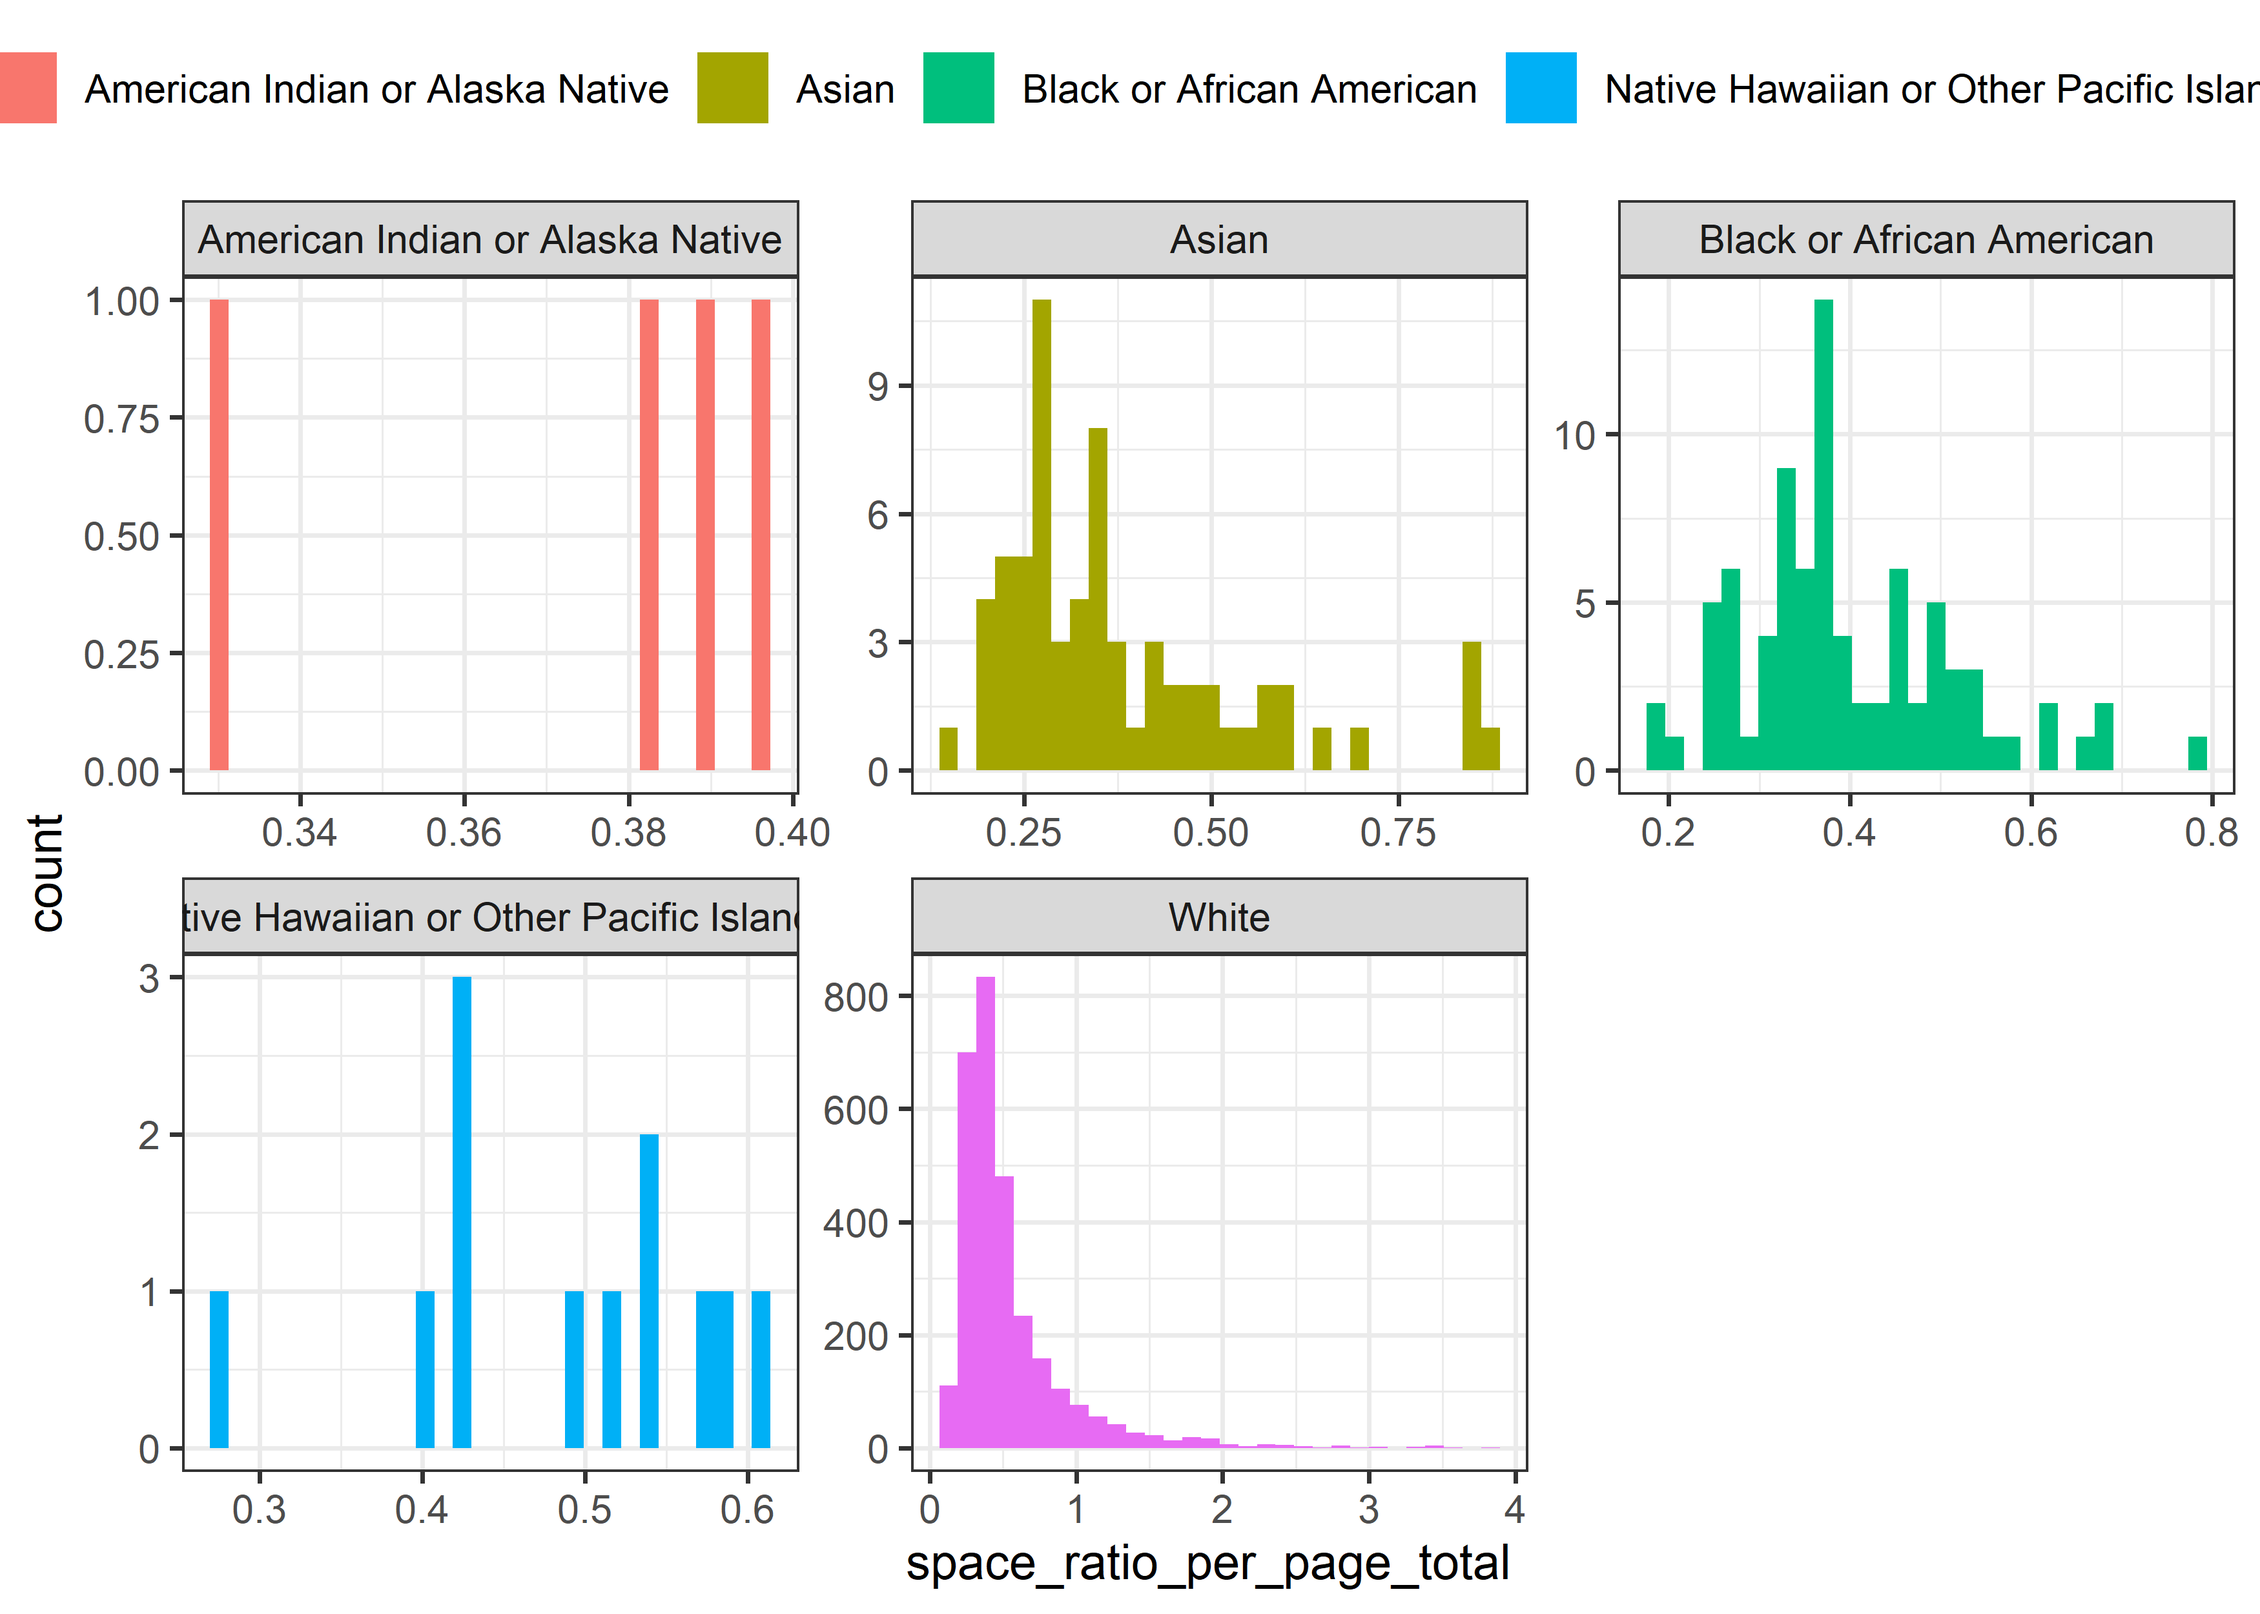
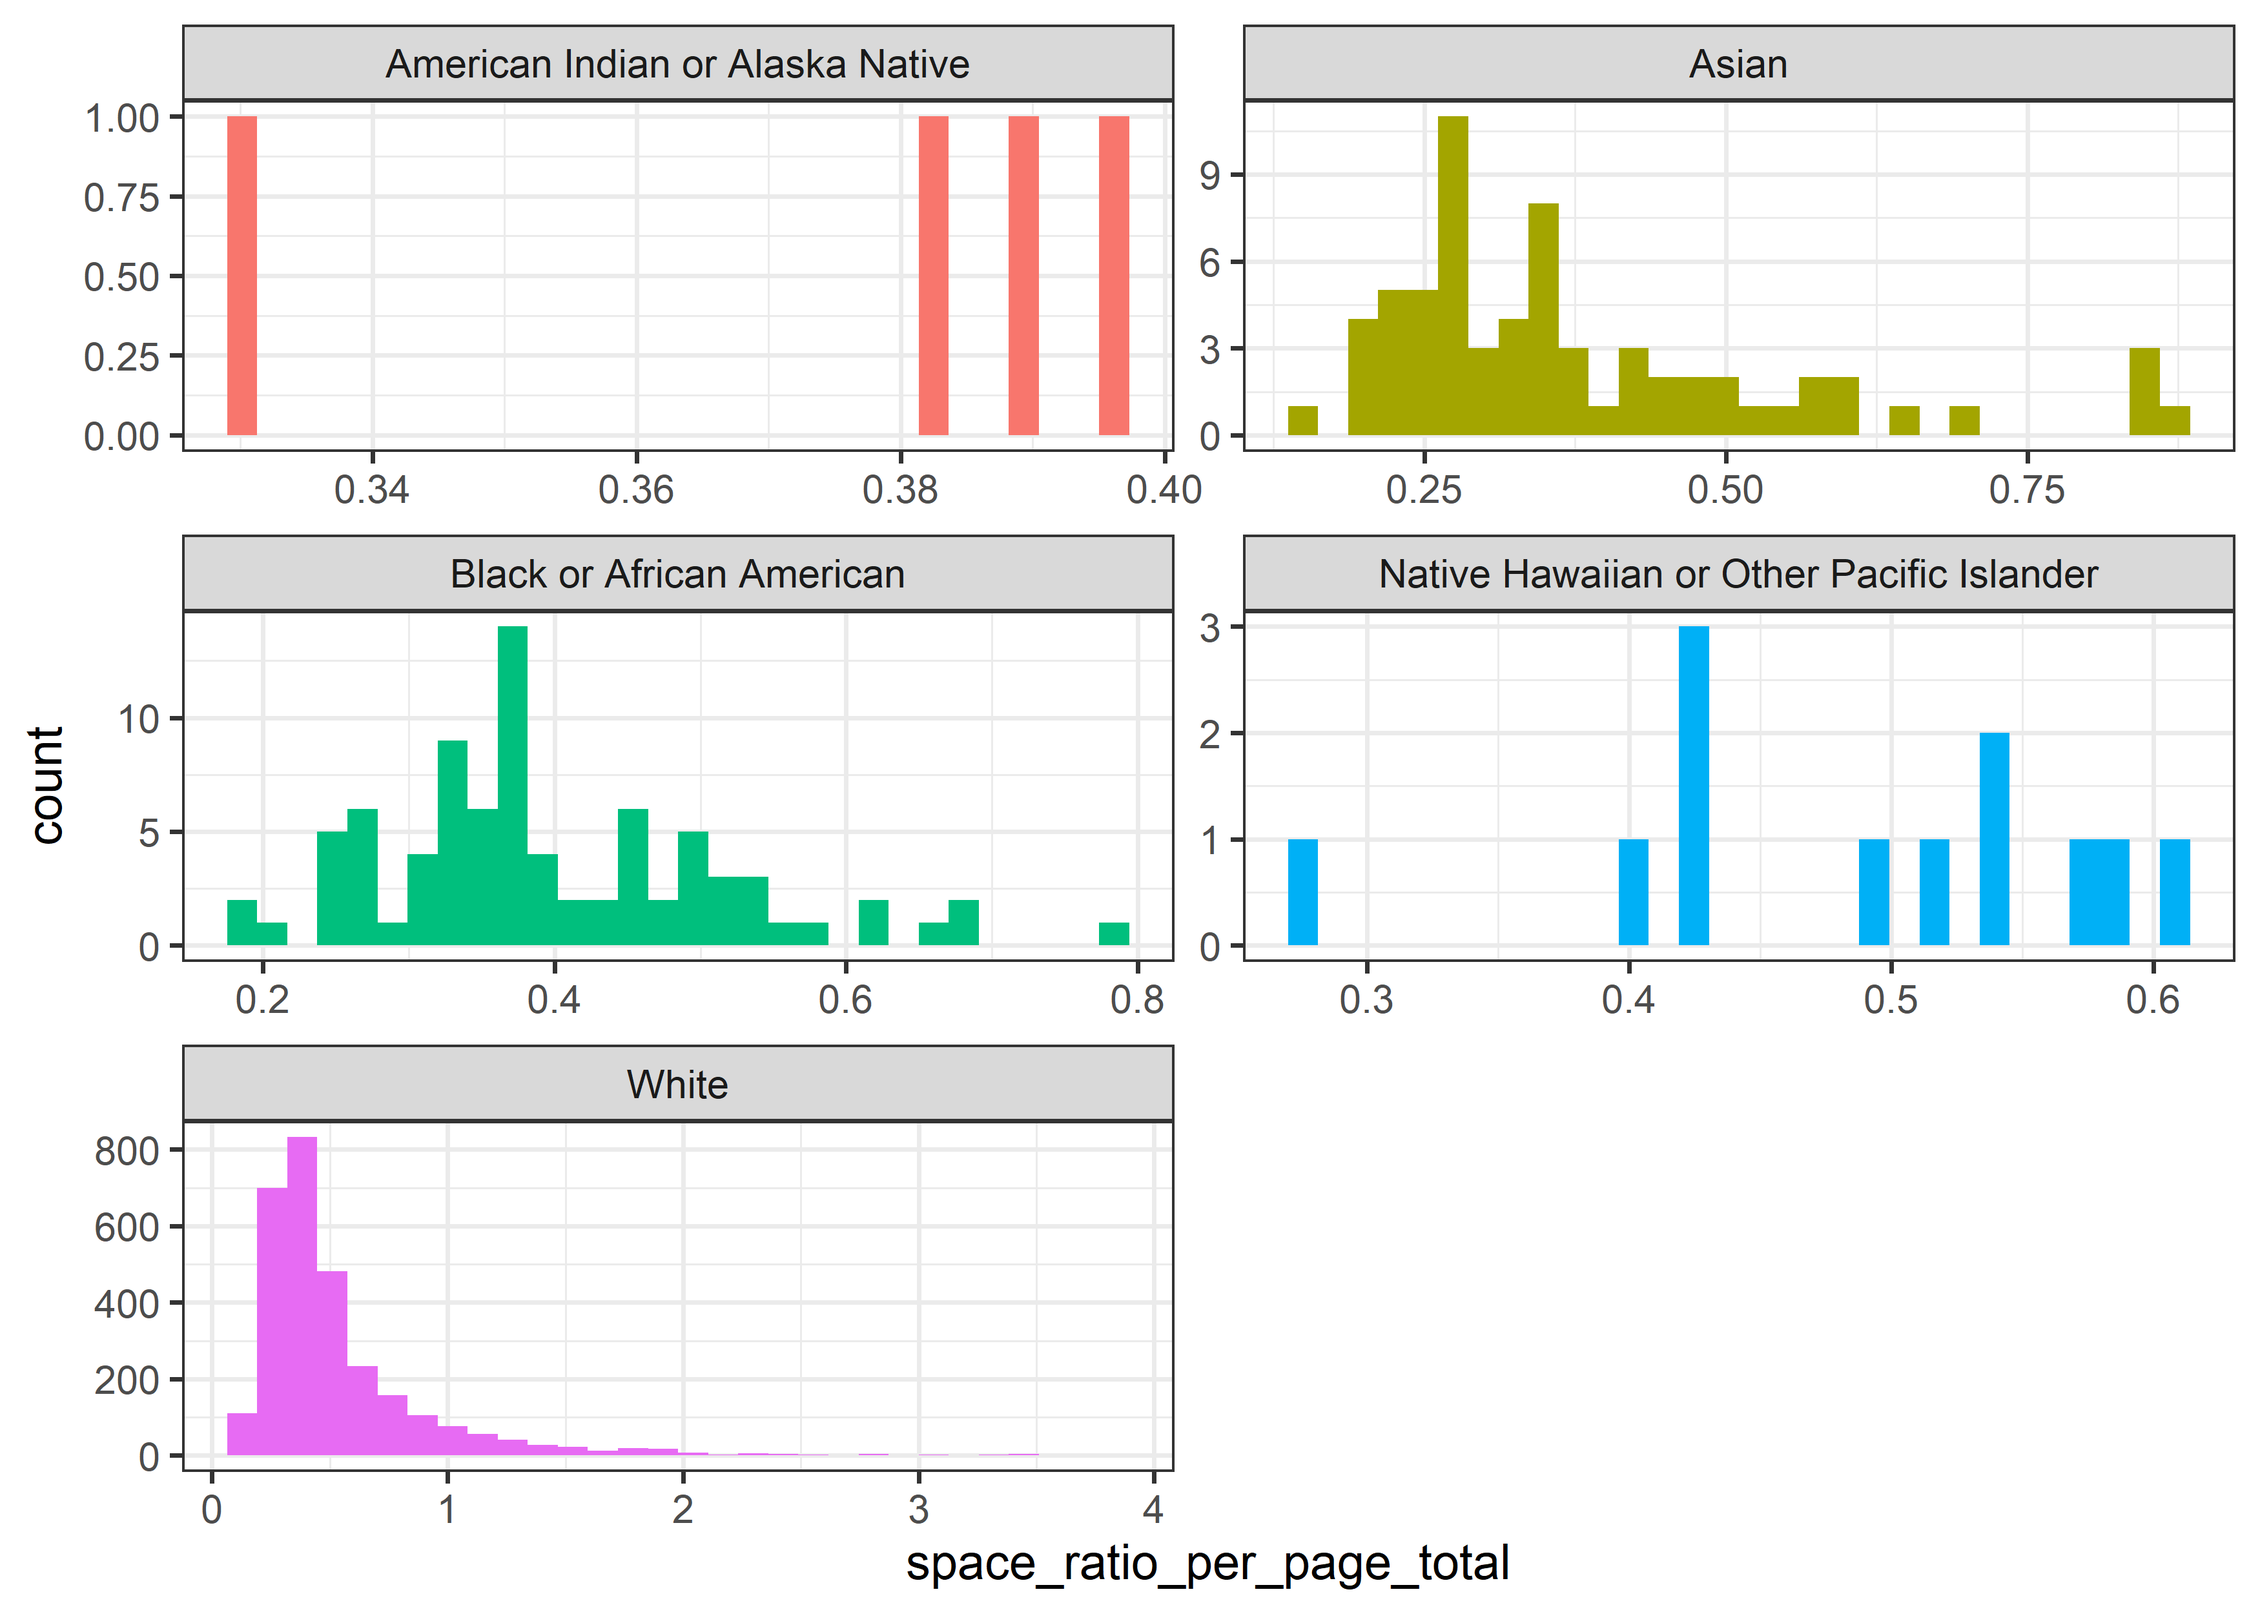
space page distribution update: 2 cols

Changed region(s): [[0.0, 0.0, 0.9966, 0.936], [0.9343, 0.2184, 0.9966, 0.2808], [0.5917, 0.9048, 0.6229, 0.936]]

diff --git a/2023/01-17-23/Artist-History.md b/2023/01-17-23/Artist-History.md
@@ -210,8 +210,8 @@ artist %>%
   drop_na() %>% 
   ggplot(aes(space_ratio_per_page_total, fill = race)) +
   geom_histogram() +
-  facet_wrap(~race, scales = "free") +
-  theme(legend.position = "top")
+  facet_wrap(~race, scales = "free", ncol = 2) +
+  theme(legend.position = "none")
 ```
 
     ## `stat_bin()` using `bins = 30`. Pick better value with `binwidth`.
